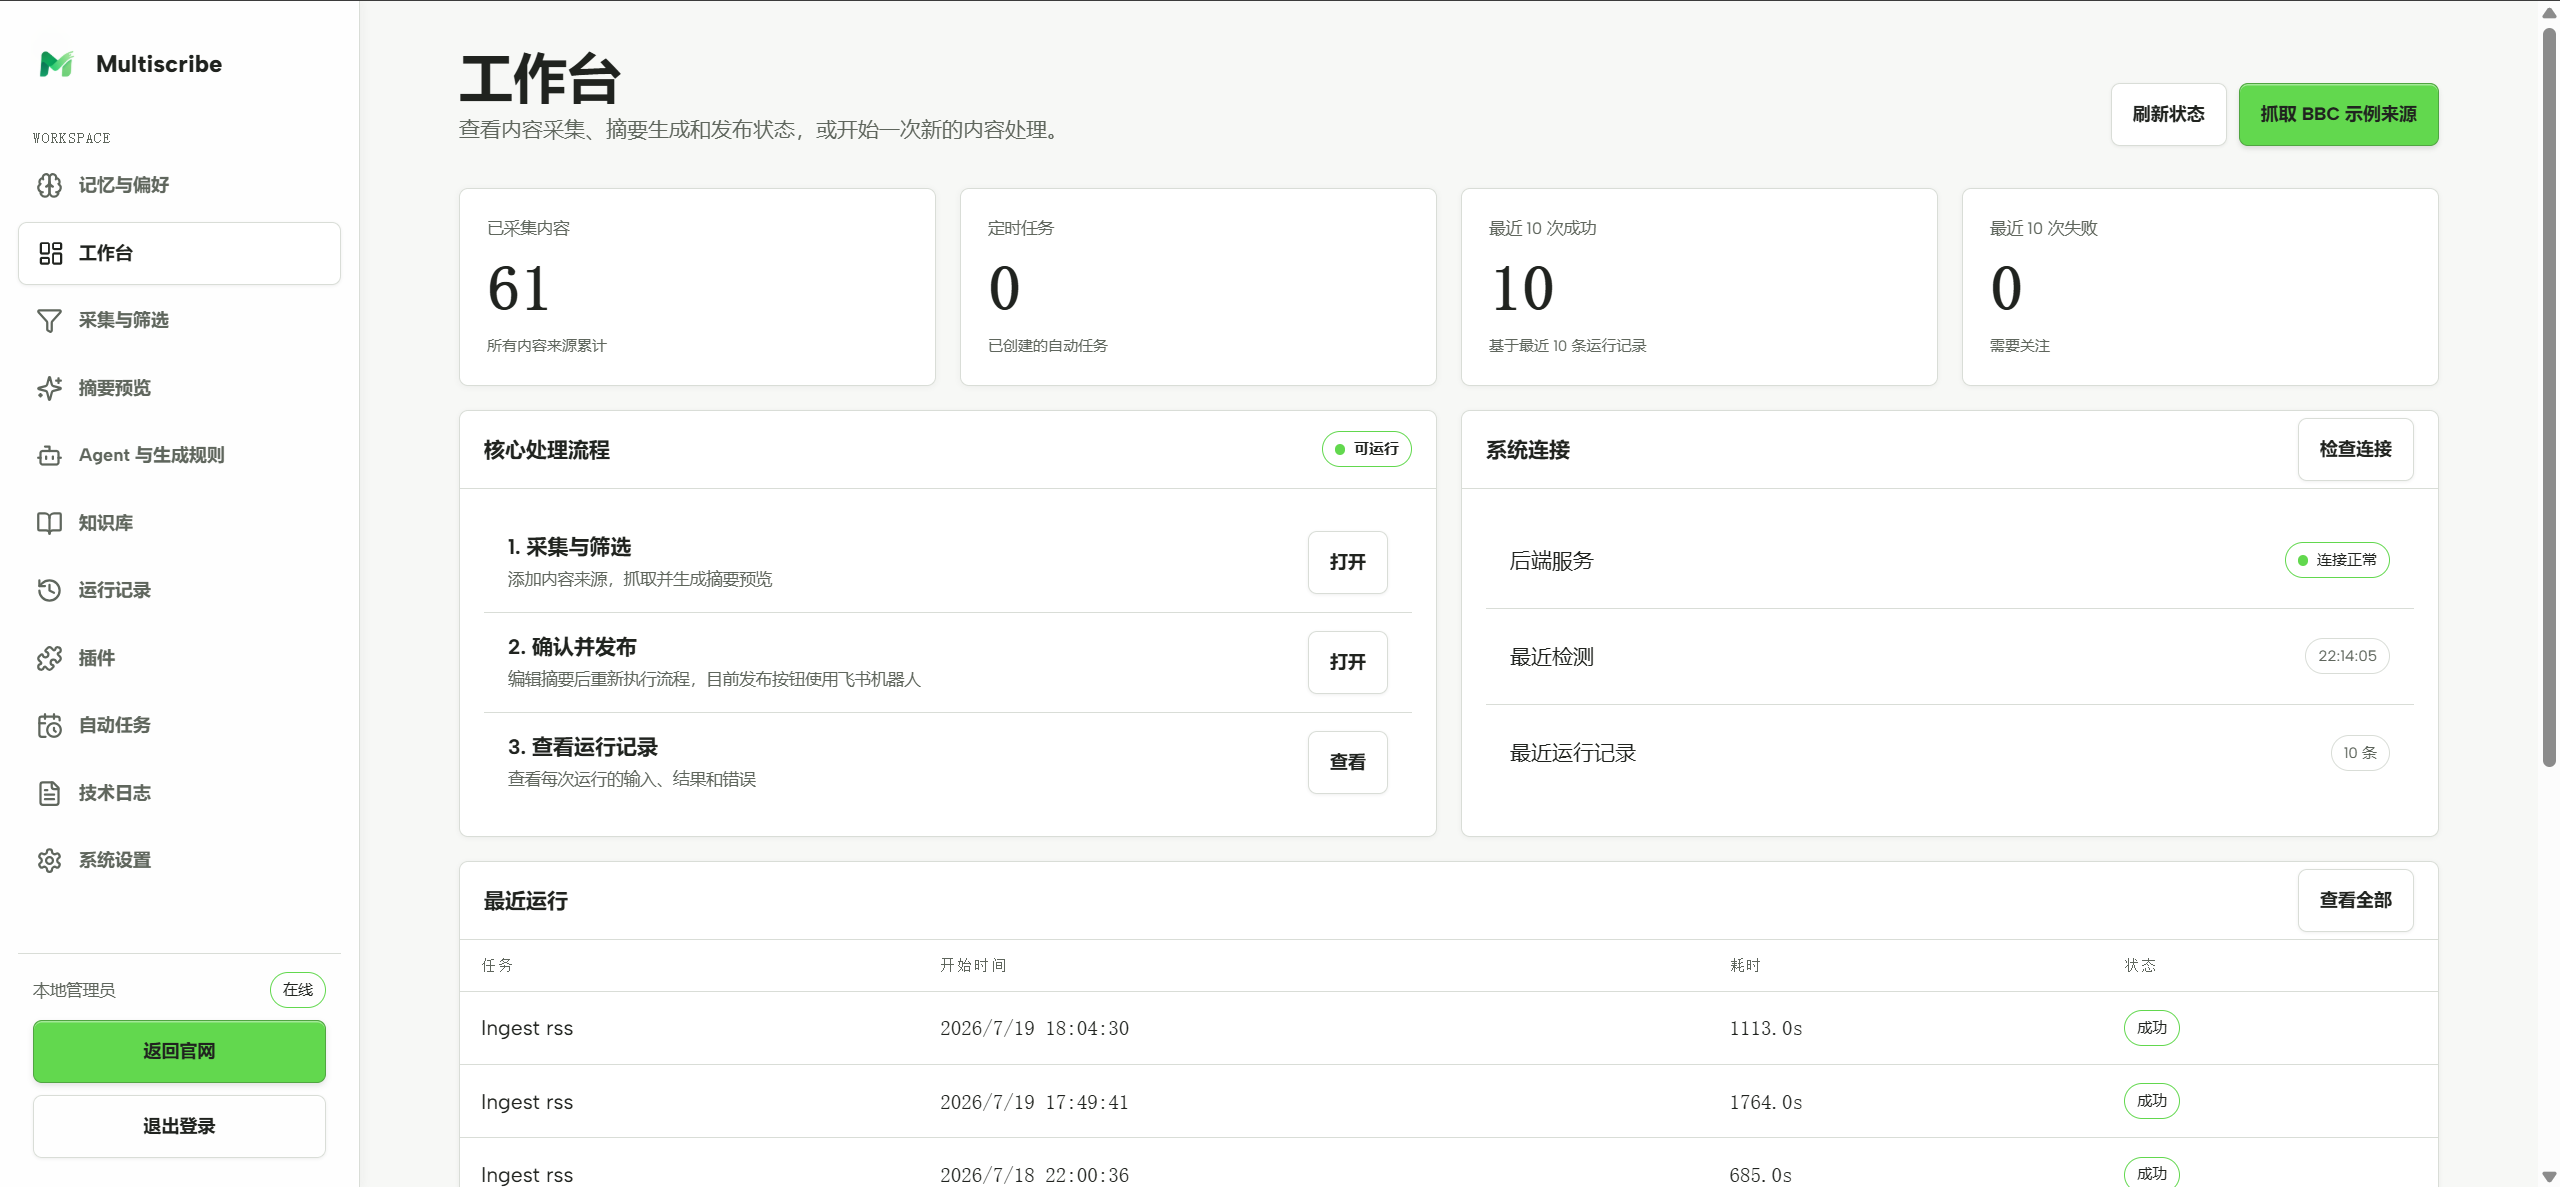
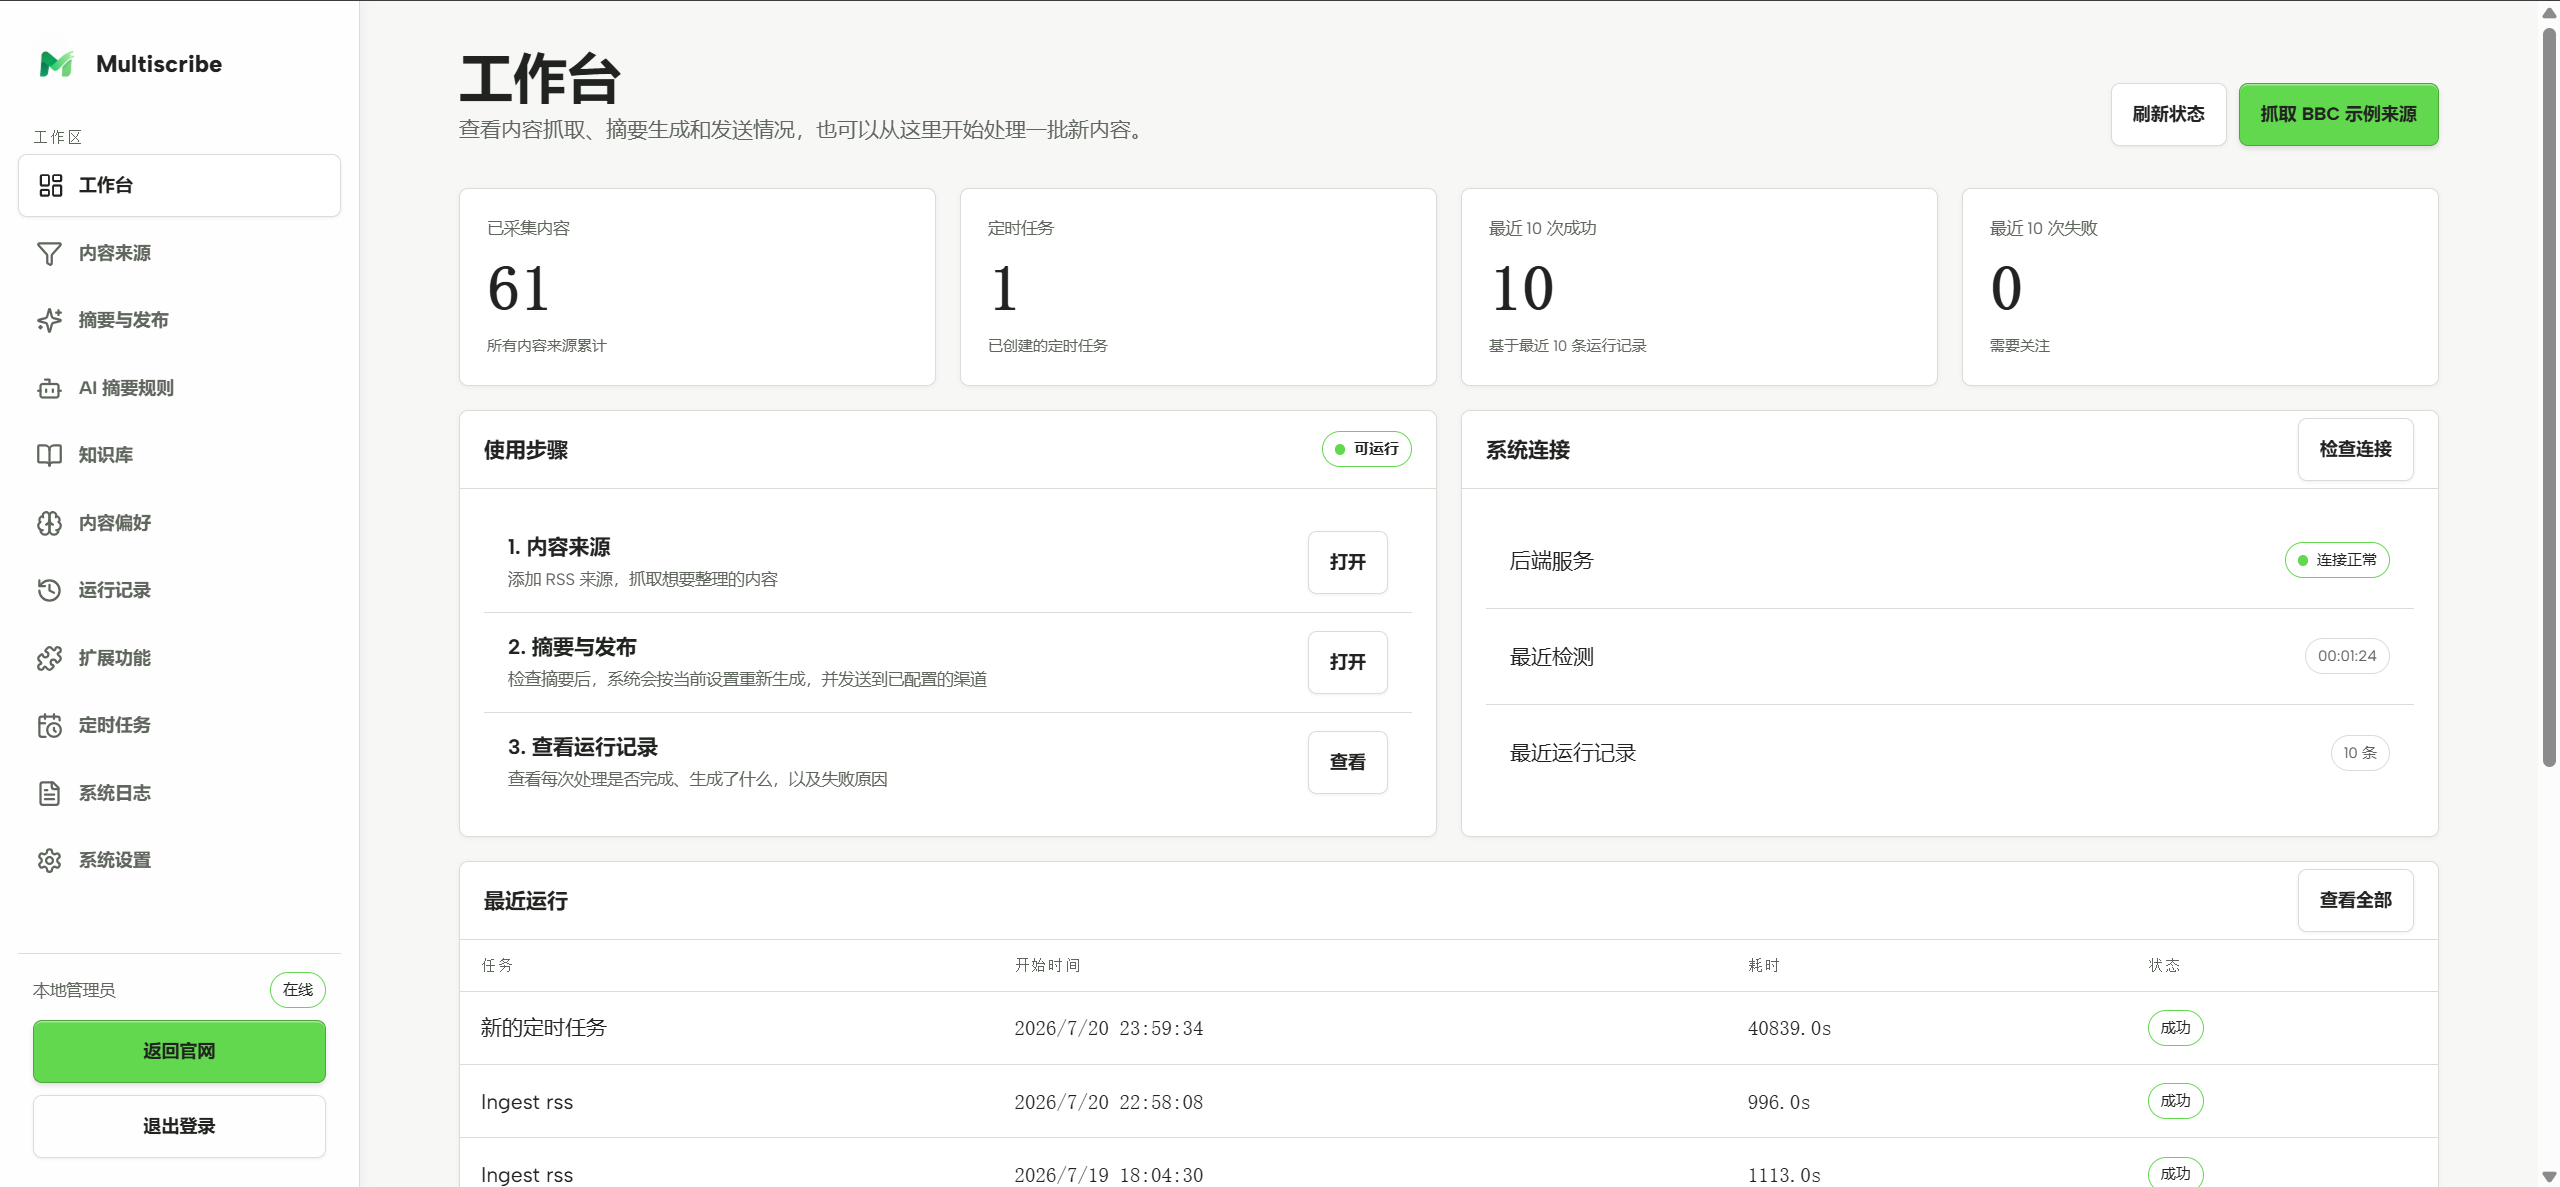
release: Multiscribe-Agent v1.1.1

diff --git a/src/multiscribe_agent/__init__.py b/src/multiscribe_agent/__init__.py
@@ -1,3 +1,3 @@
 """MultiscribeAgent package metadata."""
 
-__version__ = "1.1.0"
+__version__ = "1.1.1"

diff --git a/RELEASE_NOTES_v1.1.1.md b/RELEASE_NOTES_v1.1.1.md
@@ -1,0 +1,49 @@
+# Multiscribe-Agent v1.1.1
+
+> 面向控制台易用性与产品展示的补丁版本。
+
+**发布日期**：2026-07-20
+**版本类型**：补丁发布
+**兼容运行时**：Python 3.12+
+
+## 本次更新
+
+### 更易理解的控制台
+
+- 将控制台导航和页面文案统一为更直白的用户语言：内容来源、摘要与发布、AI 摘要规则、内容偏好、扩展功能、定时任务和系统日志。
+- 明确摘要编辑、重新生成、发送、定时执行、知识库检索和系统配置的实际行为与生效方式。
+- 将知识库的内部检索术语替换为用户可理解的说明，同时保留必要的配置变量名。
+
+### 可排序的工作区导航
+
+- 左侧导航支持长按拖动排序。
+- 自定义顺序会保存到当前浏览器，刷新后继续生效，并同步到移动端抽屉导航。
+- 普通点击导航保持原有跳转行为。
+
+### 项目展示
+
+- 更新 README 的产品介绍、技术栈展示和项目截图。
+- 允许发布仓库包含 README 使用的图片资源。
+
+## 验证结果
+
+```text
+frontend: npm run lint 通过（保留 2 条既有 Fast Refresh 警告）
+frontend: npm run build 通过
+git diff --check 通过
+```
+
+## 升级
+
+```bash
+git checkout v1.1.1
+uv sync --extra dev --extra text
+```
+
+前端静态资源随发布提交更新。部署静态资源或容器后，请重新构建或重启对应服务。
+
+## 发布内容
+
+- Git commit：`release: Multiscribe-Agent v1.1.1`
+- Git tag：`v1.1.1`
+- GitHub Release：`Multiscribe-Agent v1.1.1`